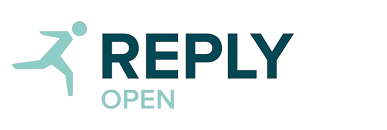
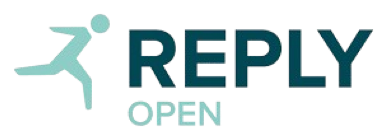
migliorato sezione dettagli progetto con nuove info

Changed region(s): [[0.031, 0.0923, 0.9612, 0.9846]]

diff --git a/src/utils/mock/users.mock.ts b/src/utils/mock/users.mock.ts
@@ -1,7 +1,7 @@
 export const USERS = [
-  { id: "1", name: "Giamma Capoccia", projects:["Unipol", "BCC"] },
-  { id: "2", name: "Sara MoFca", projects:["BCC", "Progetto Pazzesco"] },
-  { id: "3", name: "Marioooh Lombardi", projects:["AMEX", "BCC"] },
-  { id: "4", name: "Abdello Kamch", projects:["Progetto Straordinario", "BCC"] },
-  { id: "5", name: "Tonino Sgaramella", projects:["Progetto Magnifico", "BCC"] },
+  { id: "1", name: "Giamma Capoccia", projects:[{id:1, name:"BCC", startingDate:"01/01/2022", endDate:null}, {id:2, name:"Unipol", startingDate:"01/01/2022", endDate:"31/12/2025"}] },
+  { id: "2", name: "Sara MoFca", projects:[{id:1, name:"BCC", startingDate:"01/01/2022", endDate:null}] },
+  { id: "3", name: "Marioooh Lombardi", projects:[{id:1, name:"BCC", startingDate:"01/01/2022", endDate:null}, {id:2, name:"Amex", startingDate:"01/01/2022", endDate:"31/12/2025"}] },
+  { id: "4", name: "Abdello Kamch", projects:[{id:1, name:"BCC", startingDate:"01/01/2022", endDate: null}] },
+  { id: "5", name: "Tonino Sgaramella", projects:[{id:1, name:"BCC", startingDate:"01/01/2022", endDate:null}] },
 ];

diff --git a/src/screens/DetailsProject/DetailsProjectScreen.js b/src/screens/DetailsProject/DetailsProjectScreen.js
@@ -1,16 +1,19 @@
 import React from "react";
-import { StyleSheet,Text } from "react-native";
+import { StyleSheet, Text } from "react-native";
 import { SafeAreaView } from "react-native-safe-area-context";
 import { PROJECTS } from "../../utils/mock/projects.mock";
 
-export default function DetailsProjectScreen({route:{params}}) {
-    const {name} = params;
+export default function DetailsProjectScreen({ route: { params } }) {
+    const { employee:{name:nameEmployee}, project: { startingDate, endDate, name } } = params;
     const descrizioneProgetto = PROJECTS[name.toUpperCase()];
 
     return (
         <SafeAreaView style={styles.container}>
-            <Text>{name}</Text>
-            {descrizioneProgetto && <Text>{descrizioneProgetto}</Text>}
+            <Text>DEVELOPER: {nameEmployee}</Text>
+            <Text>PROJECT: {name}</Text>
+            {startingDate && <Text>FROM: {startingDate}</Text>}
+            {endDate && <Text>TO: {endDate}</Text>}
+            {descrizioneProgetto && <><Text>INFO PROJECT:</Text><Text>{descrizioneProgetto}</Text></>}
         </SafeAreaView>
     );
 }

diff --git a/src/screens/EmployeeProjects/EmployeeProjectsScreen.js b/src/screens/EmployeeProjects/EmployeeProjectsScreen.js
@@ -3,11 +3,12 @@ import { FlatList, StyleSheet, Button,Text } from "react-native";
 import { SafeAreaView } from "react-native-safe-area-context";
 import { PAGES } from "../../utils/utils.data";
 
-const Item = ({name,navigation}) =>{
+const Item = ({project,employee, navigation}) =>{
+  const {name} = project;
   return (
     <Button
       title={name}
-      onPress={() => navigation.navigate(PAGES.DETTAGLI_PROGETTO,{name})}
+      onPress={() => navigation.navigate(PAGES.DETTAGLI_PROGETTO,{employee, project})}
     />
   )};
 
@@ -23,7 +24,7 @@ export default function ProjectsScreen({ route, navigation }) {
         data={projects}
         keyExtractor={(item) => item.id?.toString()}
         renderItem={({ item }) => (
-          <Item name={item} navigation={navigation} />
+          <Item project={item} employee={employee} navigation={navigation} />
         )}
         contentContainerStyle={{ paddingBottom: 20 }}
       /> 

diff --git a/src/screens/Home/HomeScreen.js b/src/screens/Home/HomeScreen.js
@@ -21,6 +21,7 @@ export default function HomeScreen() {
 const styles = StyleSheet.create({
   container: {
     flex: 1,
+    flexDirection: "row",
     backgroundColor: "#F5F7FA",
     justifyContent: "center",
     alignItems: "center",
@@ -39,9 +40,7 @@ const styles = StyleSheet.create({
     elevation: 5,
   },
   logo: {
-    width: 200, 
-    height: 100, 
-    marginBottom: 0,
+    width: "70%", 
   },
   description: {
     fontSize: 16,
